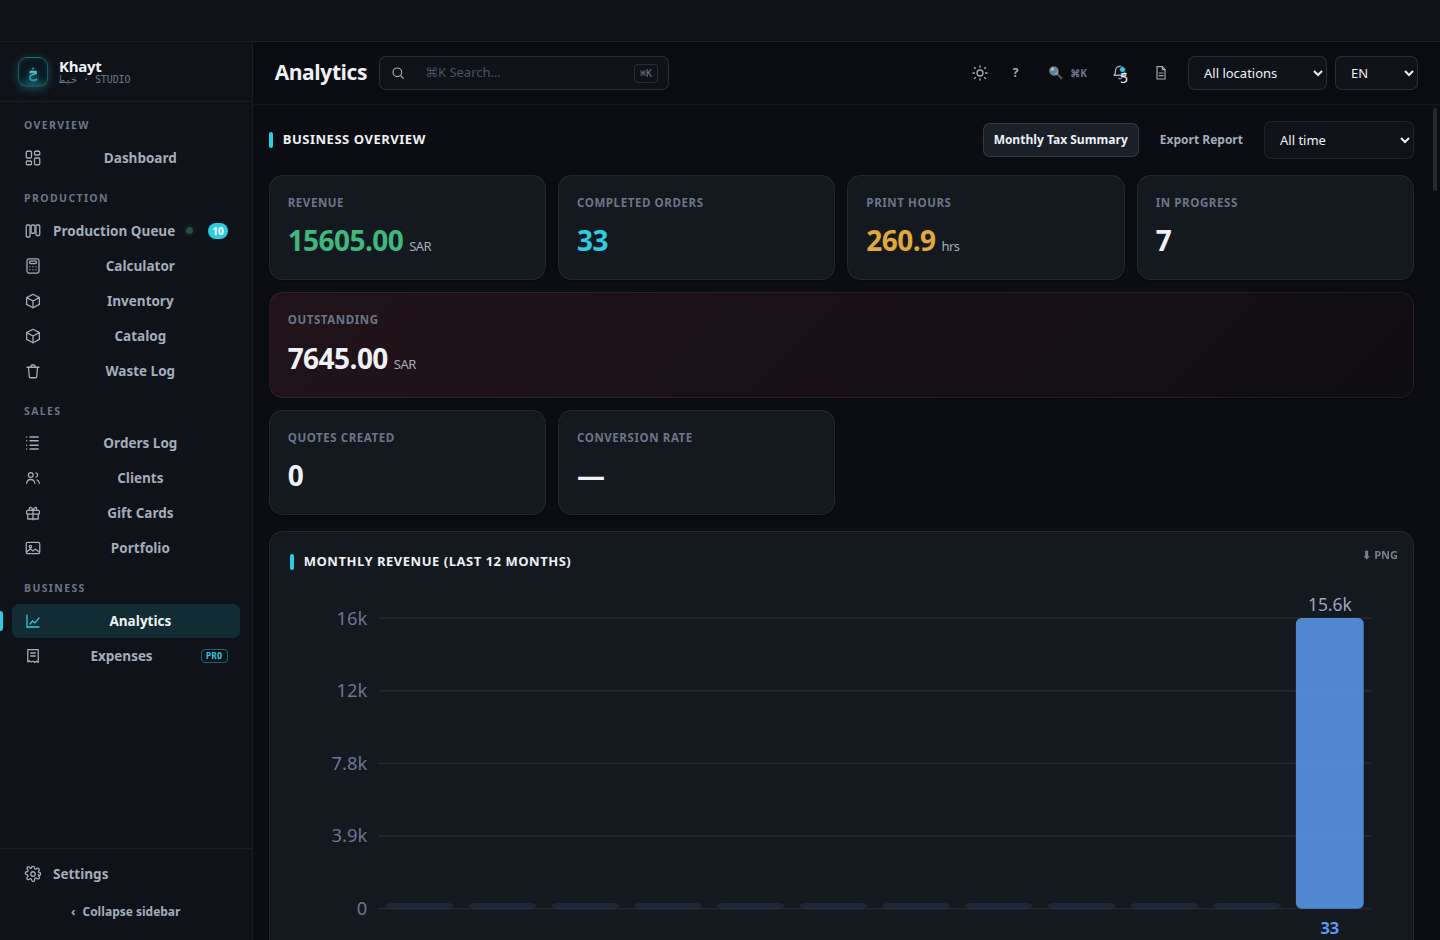
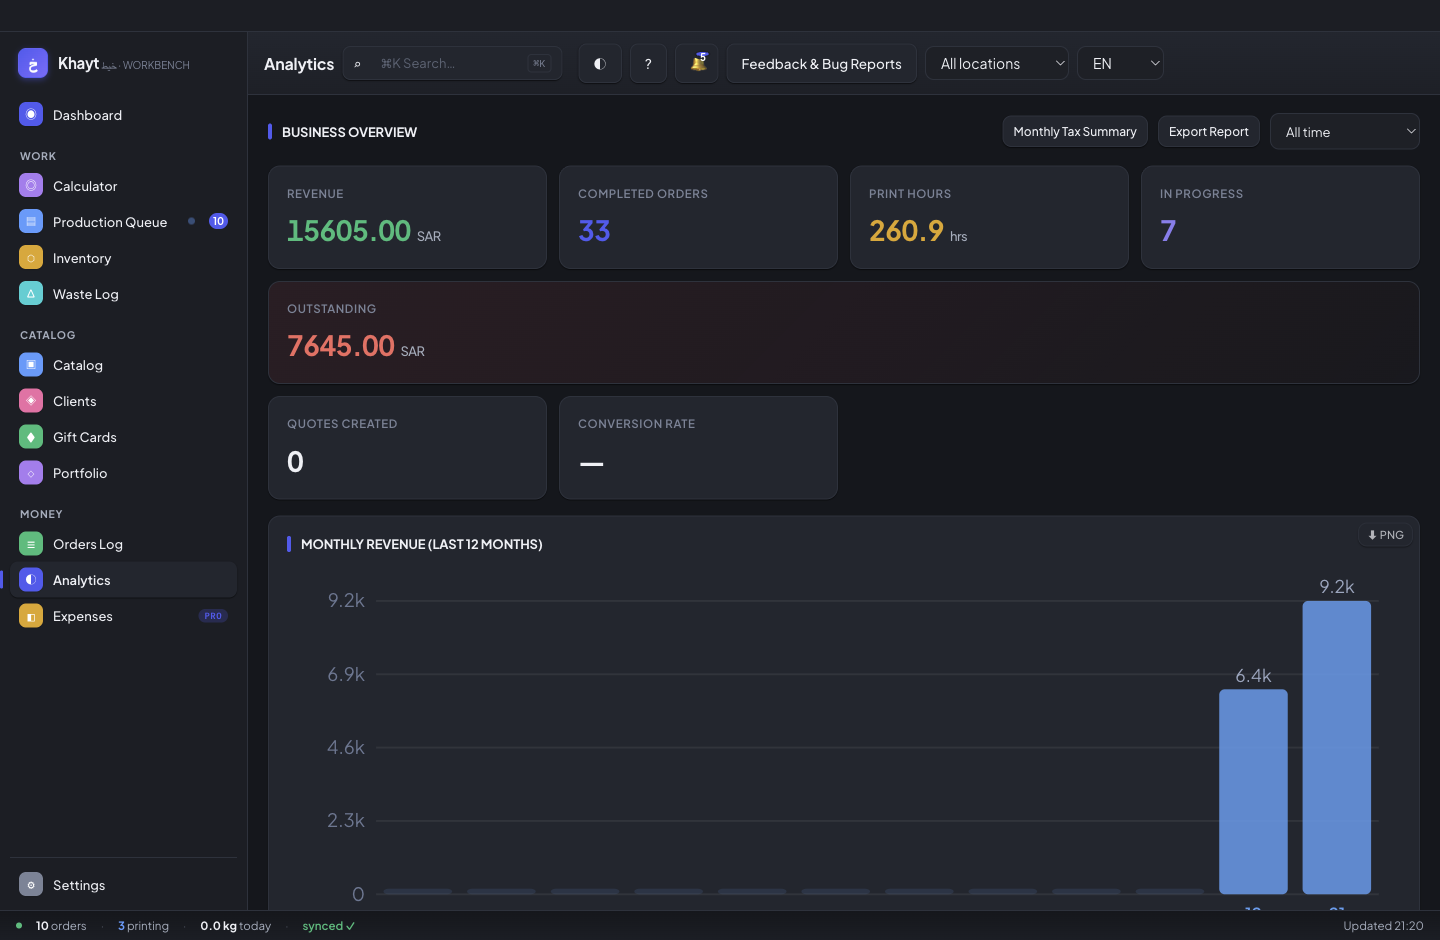
docs: refresh README screenshots (Workbench) + theme/redesign docs
- Regenerate the 12 README screenshots from the current default Workbench theme
  with populated demo data.
- Fix capture-screenshots.mjs: gate on the demo store actually applying
  (loadAll runs async after reload) before capturing, so the dashboard — the
  first shot — no longer renders empty.
- THEMES.md: document the shipped Workbench (default) / Command / Vivid themes;
  move the older themes to a "legacy" section; refresh shell types + roadmap.
- UI-REDESIGN-STATUS.md: mark the redesign shipped (was an in-progress tracker).
- README: default UI is now Workbench (was "Studio"); update version lines
  (stable v2.5.0, beta v2.6.0-beta with the three redesigned themes).

diff --git a/docs/UI-REDESIGN-STATUS.md b/docs/UI-REDESIGN-STATUS.md
@@ -1,48 +1,33 @@
-# UI Redesign — status & how to continue (local Mac session)
+# UI Redesign — status
 
-## Goal
-Replace the 7 themes with **3** new ones — **Workbench** (default), **Command**
-(renamed from the prototype "Cockpit" to avoid clashing with the existing
-`cockpit` theme), **Vivid**. Light-default, colorful, native-app feel. **Phased**
-rollout: build the 3 behind the picker → switch default + migrate → remove old 7.
+**Status: shipped (Khayt 2.6).** The 7-theme set was replaced by **3** redesigned,
+light-default themes with a native-app feel: **Workbench** (default), **Command**,
+and **Vivid**. Screen interiors were rebuilt to match the approved prototypes
+(not just a chrome re-skin). The older themes remain selectable as legacy options.
 
-User decision: **rebuild the screen *interiors* to match the mockups** (not just a
-chrome re-skin).
+## What shipped
+- **Workbench** is the default design (`settings.designTheme: 'workbench'`).
+  Saved `studio` / `ledger` / `console` selections migrate to Workbench on upgrade.
+- **Command** and **Vivid** ship alongside it (all light by default), each with its
+  own shell/tokens.
+- Every screen interior (Dashboard, Calculator → order, Production Queue/Kanban,
+  Fleet, Inventory, Clients, Orders/Invoices, Analytics, Settings, Waste, Catalog,
+  Portfolio, Gift Cards) is rebuilt per theme, with dark + RTL (Arabic) variants.
+- README screenshots are captured from the Workbench theme with demo data
+  (`npm run capture:screenshots`); per-theme galleries via
+  `node scripts/capture-theme-screenshots.mjs`.
 
-## Where things are
-- **Prototypes (approved design targets):** `design/proto-a-workbench.html`,
-  `design/proto-b-cockpit.html`, `design/proto-c-vivid.html` (+ proposal
-  `docs/UI-REDESIGN.md`). Open in a browser.
-- **Branch `claude/theme-workbench`** (PR #102): the real Workbench theme.
-  - `renderer/themes/workbench/{tokens,shell}.css` + `shell.js` — chrome (sidebar
-    grouping, toolbar, status bar). Registered in `registry-core.js`, opt-in.
-  - `renderer/themes/workbench/screens.{js,css}` — **Dashboard interior** rebuilt
-    to match the mockup, wired to real data via the `KhaytWorkbench.renderDashboard`
-    hook (mirrors the `KhaytStudio.renderClientsStudioCards` pattern;
-    `renderer/dashboard.js` delegates when `body.khayt-workbench`).
+## How it's built (reference)
+- Theme definitions: `renderer/themes/registry-core.js` (`BUILTIN_THEMES`).
+- Per-theme chrome + screens: `renderer/themes/<theme>/{tokens,shell,screens}.{css,js}`.
+- Each theme exposes `Khayt<Theme>.render<Screen>(host)`; the shared
+  `render<Screen>()` delegates when the theme's `body.khayt-<theme>` class is set
+  (mirrors the original `KhaytStudio` pattern). Other themes are untouched.
+- Prototypes (design targets): `design/proto-a-workbench.html`,
+  `design/proto-b-cockpit.html`, `design/proto-c-vivid.html` (proposal in
+  `docs/UI-REDESIGN.md`).
 
-## The build pattern (reuse for every screen)
-Each screen gets a `KhaytWorkbench.render<Screen>(host)` that emits the prototype
-markup wired to real globals, and the existing `render<Screen>()` delegates to it
-when the Workbench body class is set. Other themes stay untouched.
-
-## Remaining work (screen-by-screen, with live screenshots each)
-1. Verify Dashboard live; fix to match mockup.
-2. Rebuild interiors: **Calculator → order**, **Queue (kanban)**, **Fleet**,
-   **Inventory**, **Clients**, **Invoices & Orders**, **Analytics**, **Settings**.
-3. Polish dark variant, RTL (Arabic), responsive.
-4. Replace placeholder `renderer/themes/previews/workbench.png` with a real capture.
-5. Once Workbench is signed off, clone the screens for **Command** + **Vivid**
-   (same markup, different tokens/chrome/color).
-6. Phase 2: default → Workbench + migrate saved `settings.designTheme`. Phase 3:
-   delete the old 7 shells.
-
-## How to run + self-review (local)
-`npm install` then `npm start`; Settings → Preferences → Design → **Workbench**.
-To self-review, capture the Electron window (e.g. an Electron `capturePage` script
-or macOS `screencapture`) and read the PNG back, iterating until it matches the
-prototype.
-
-## Note
-The current sandbox could not render/screenshot (no display/browser, blocked CDN),
-which is why this moved to a local Mac session.
+## Verify locally
+`npm install` then `npm start`. The app opens in Workbench; switch via
+**Settings → Preferences → Design**. To re-capture screenshots, run
+`npm run capture:screenshots` (output in `assets/screenshot-*.png`).

diff --git a/docs/THEMES.md b/docs/THEMES.md
@@ -4,16 +4,21 @@ Khayt separates **appearance** (dark / light / system) from **design theme** (vi
 
 ## Built-in themes
 
+Khayt 2.6 ships three redesigned, light-default themes with a native-app feel:
+
 | ID | Name | Shell | Default appearance |
 |----|------|-------|-------------------|
-| `studio` | Studio | Grouped left sidebar | Dark |
-| `ledger` | Workshop Ledger | Masthead + horizontal tabs | Light |
-| `console` | Control Room *(coming soon)* | Command bar + code rail | Dark |
-| `atelier` | Atelier *(coming soon)* | Soft sidebar | Light |
-| `vitrine` | Vitrine *(coming soon)* | Glass sidebar | Dark |
-| `cockpit` | Cockpit *(coming soon)* | Ops icon rail | Light |
+| `workbench` | **Workbench** _(default)_ | Grouped left sidebar | Light |
+| `command` | Command | Command bar + rail | Light |
+| `vivid` | Vivid | Colorful sidebar | Light |
 
-Reserved themes appear as “Coming soon” in Settings until art direction and tokens land.
+### Legacy themes
+
+The earlier themes remain selectable under **Settings → Preferences → Design**:
+`studio` (Studio), `ledger` (Workshop Ledger), `console` (Control Room),
+`atelier`, `vitrine`, `cockpit`, and `atlas`. Saved selections of the older
+default themes (`studio` / `ledger` / `console`) migrate to **Workbench** on
+upgrade.
 
 ## Architecture
 
@@ -29,8 +34,11 @@ renderer/themes/
 
 **Shell types**
 
-- `studio` — sidebar navigation (`body.khayt-studio`)
-- `ledger` — masthead + horizontal tab strip (`body.khayt-ledger`)
+- `workbench` — grouped sidebar, light-default (`body.khayt-workbench`) — the default
+- `command` — command bar + rail (`body.khayt-command`)
+- `vivid` — colorful sidebar (`body.khayt-vivid`)
+- `studio` — sidebar navigation (`body.khayt-studio`, legacy)
+- `ledger` — masthead + horizontal tab strip (`body.khayt-ledger`, legacy)
 - `default` — legacy horizontal layout without Studio chrome
 
 **Token contract**
@@ -74,6 +82,5 @@ Themes with shell `studio`, `ledger`, `console`, `atelier`, or `vitrine` set `bo
 
 ## Roadmap
 
-- **Control Room, Atelier, Vitrine, Cockpit** — Khayt-4 directions C–F (coming soon in picker)
 - Theme import/export (zip manifest + CSS)
 - Theme preview thumbnails in Settings

diff --git a/README.md b/README.md
@@ -144,7 +144,7 @@ Khayt replaces spreadsheets, WhatsApp notes, and separate invoicing tools with o
 - Import / Export all data
 - Custom invoice number prefix with gap detection
 - Working hours schedule and public holidays
-- Studio UI — sidebar navigation, Kanban production queue, and focused dashboards
+- Workbench UI — light, native-feel default design with sidebar navigation, Kanban production queue, and focused dashboards (plus Command, Vivid, and legacy theme options)
 
 ---
 
@@ -152,9 +152,9 @@ Khayt replaces spreadsheets, WhatsApp notes, and separate invoicing tools with o
 
 ### Download (recommended)
 
-**Stable (recommended):** **[Releases → Latest](https://github.com/Alballaa/Khayt/releases/latest)** — currently **v2.3.2**.
+**Stable (recommended):** **[Releases → Latest](https://github.com/Alballaa/Khayt/releases/latest)** — currently **v2.5.0**.
 
-**Beta (Khayt-4 themes):** **[Pre-releases](https://github.com/Alballaa/Khayt/releases)** — **v2.4.0-beta.1** adds Cockpit, Atlas, and five other theme shells. Pre-release builds; stable installs do not auto-update to beta. See [docs/BETA-RELEASE.md](docs/BETA-RELEASE.md).
+**Beta:** **[Pre-releases](https://github.com/Alballaa/Khayt/releases)** — **v2.6.0-beta** ships the redesigned **Workbench** (default), **Command**, and **Vivid** themes. Pre-release builds; stable installs do not auto-update to beta. See [docs/BETA-RELEASE.md](docs/BETA-RELEASE.md).
 
 Grab the file for your platform:
 
